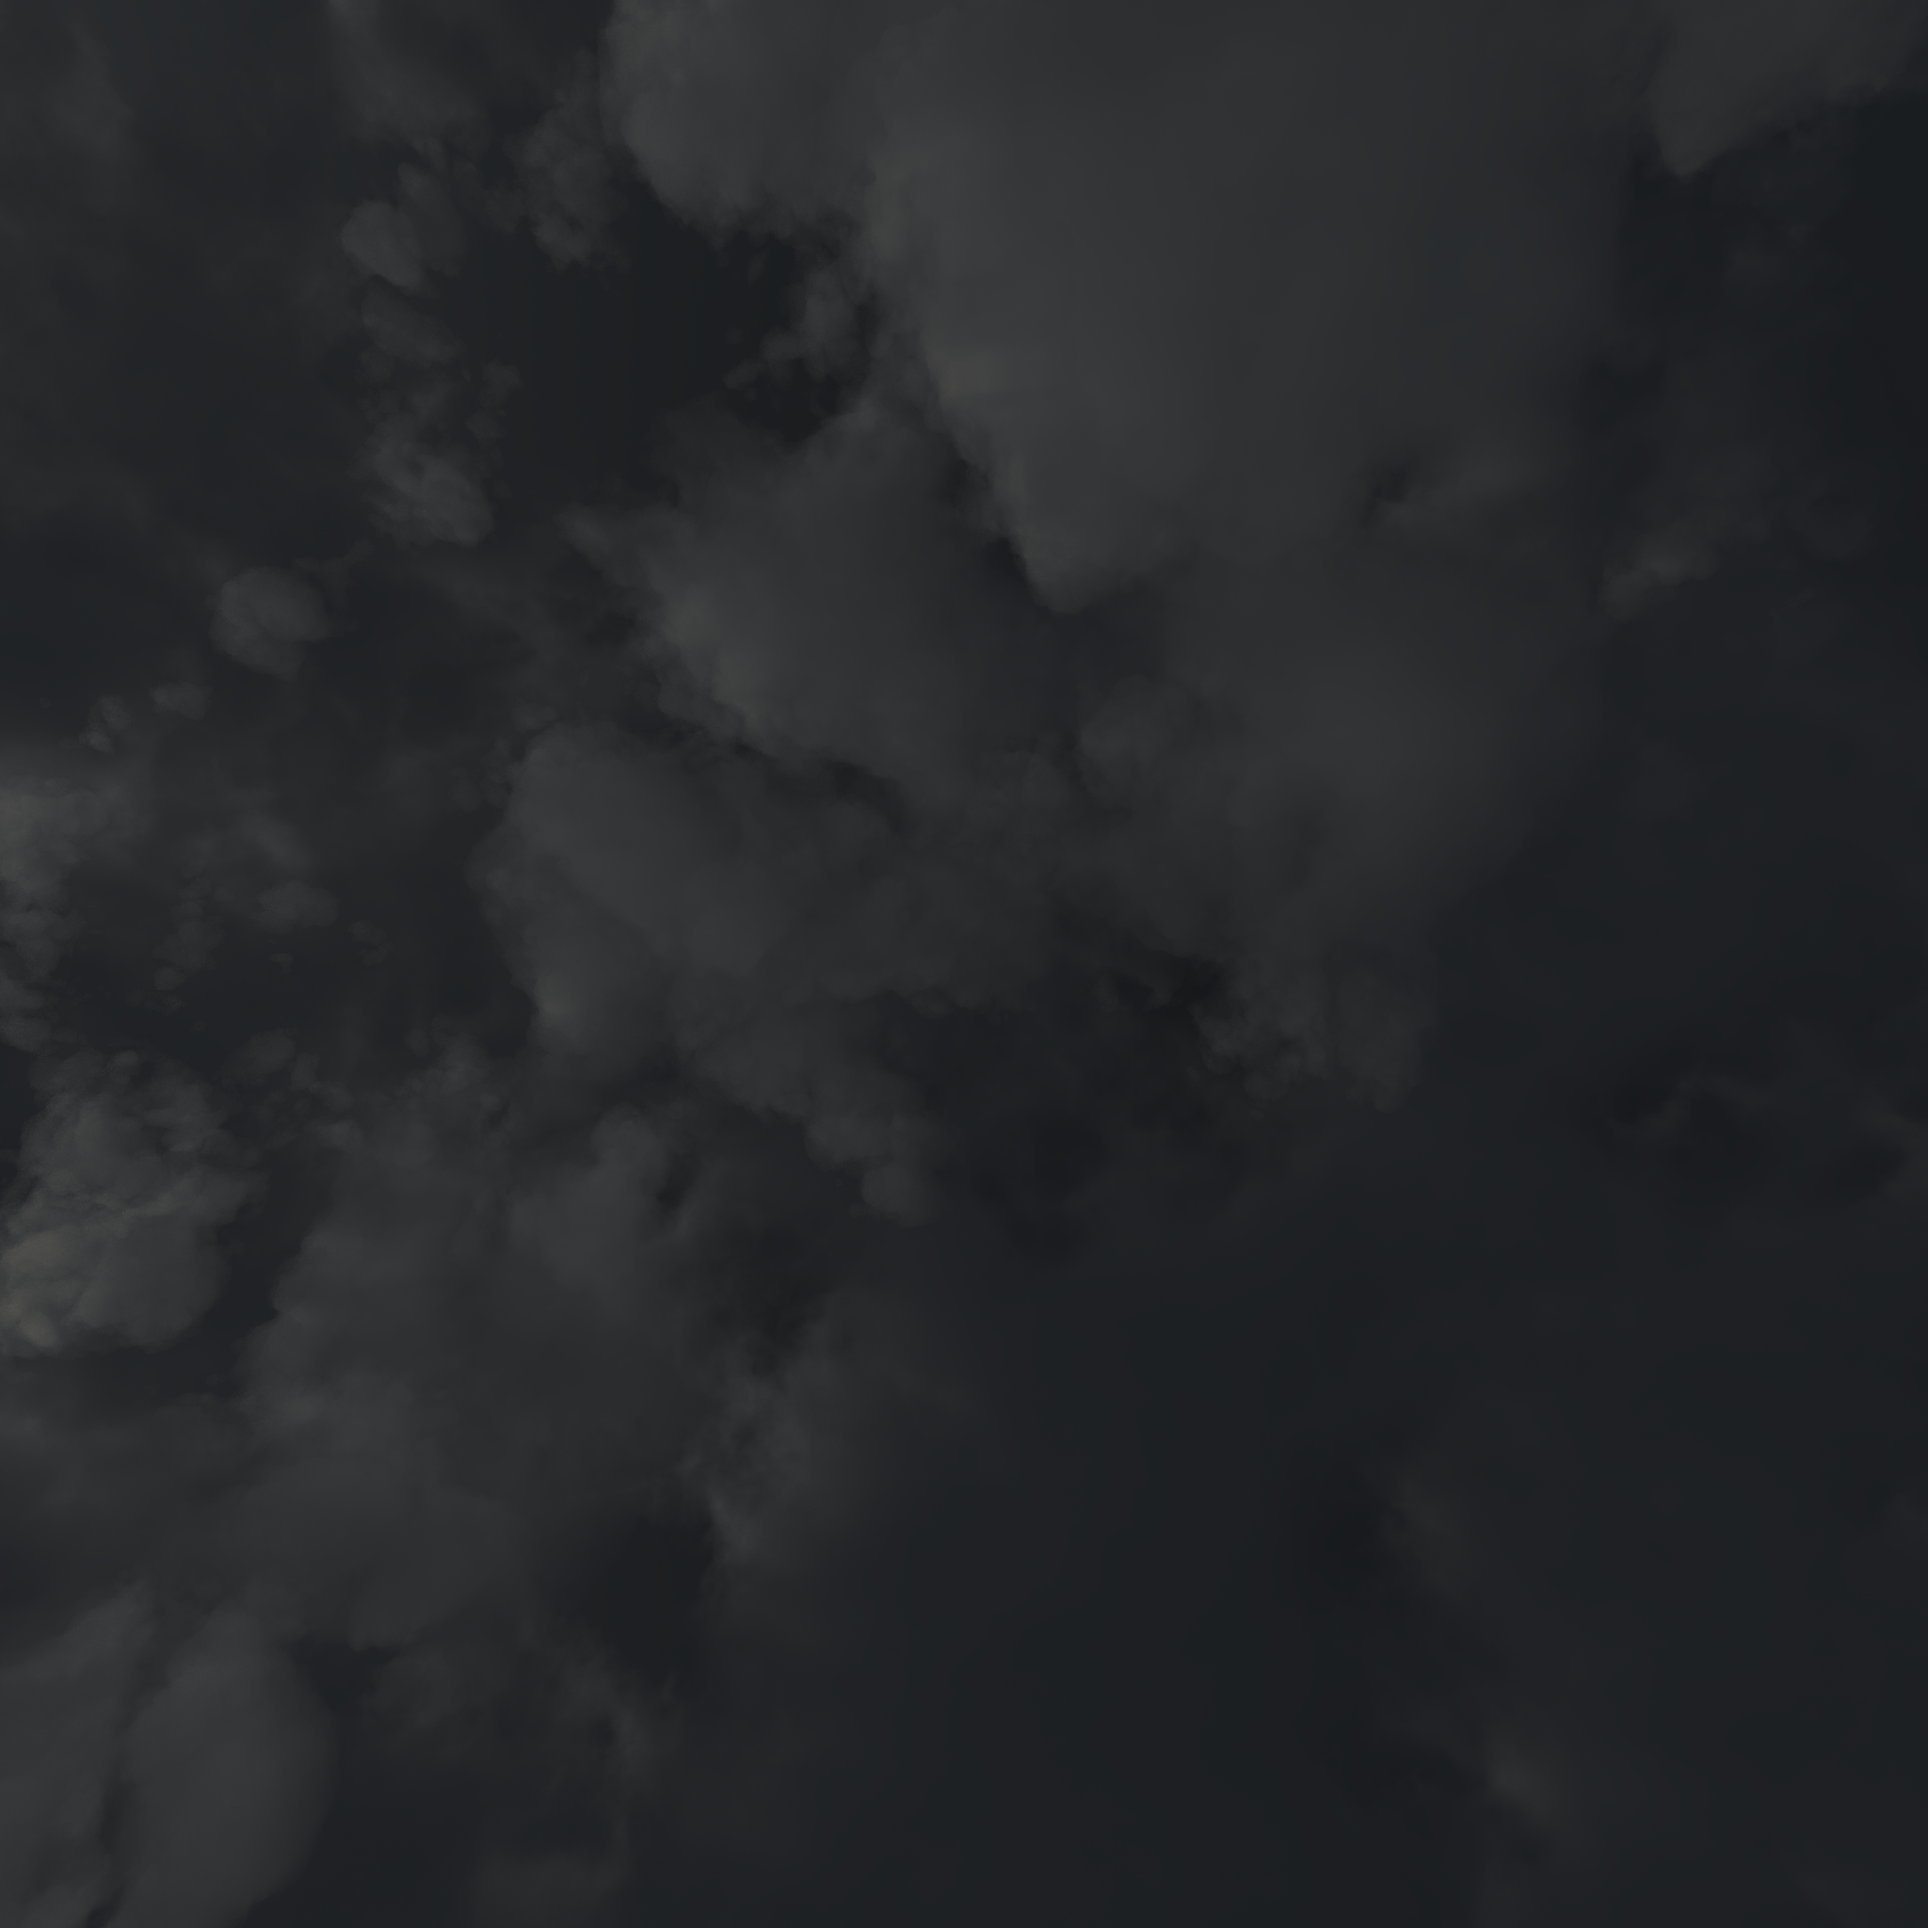
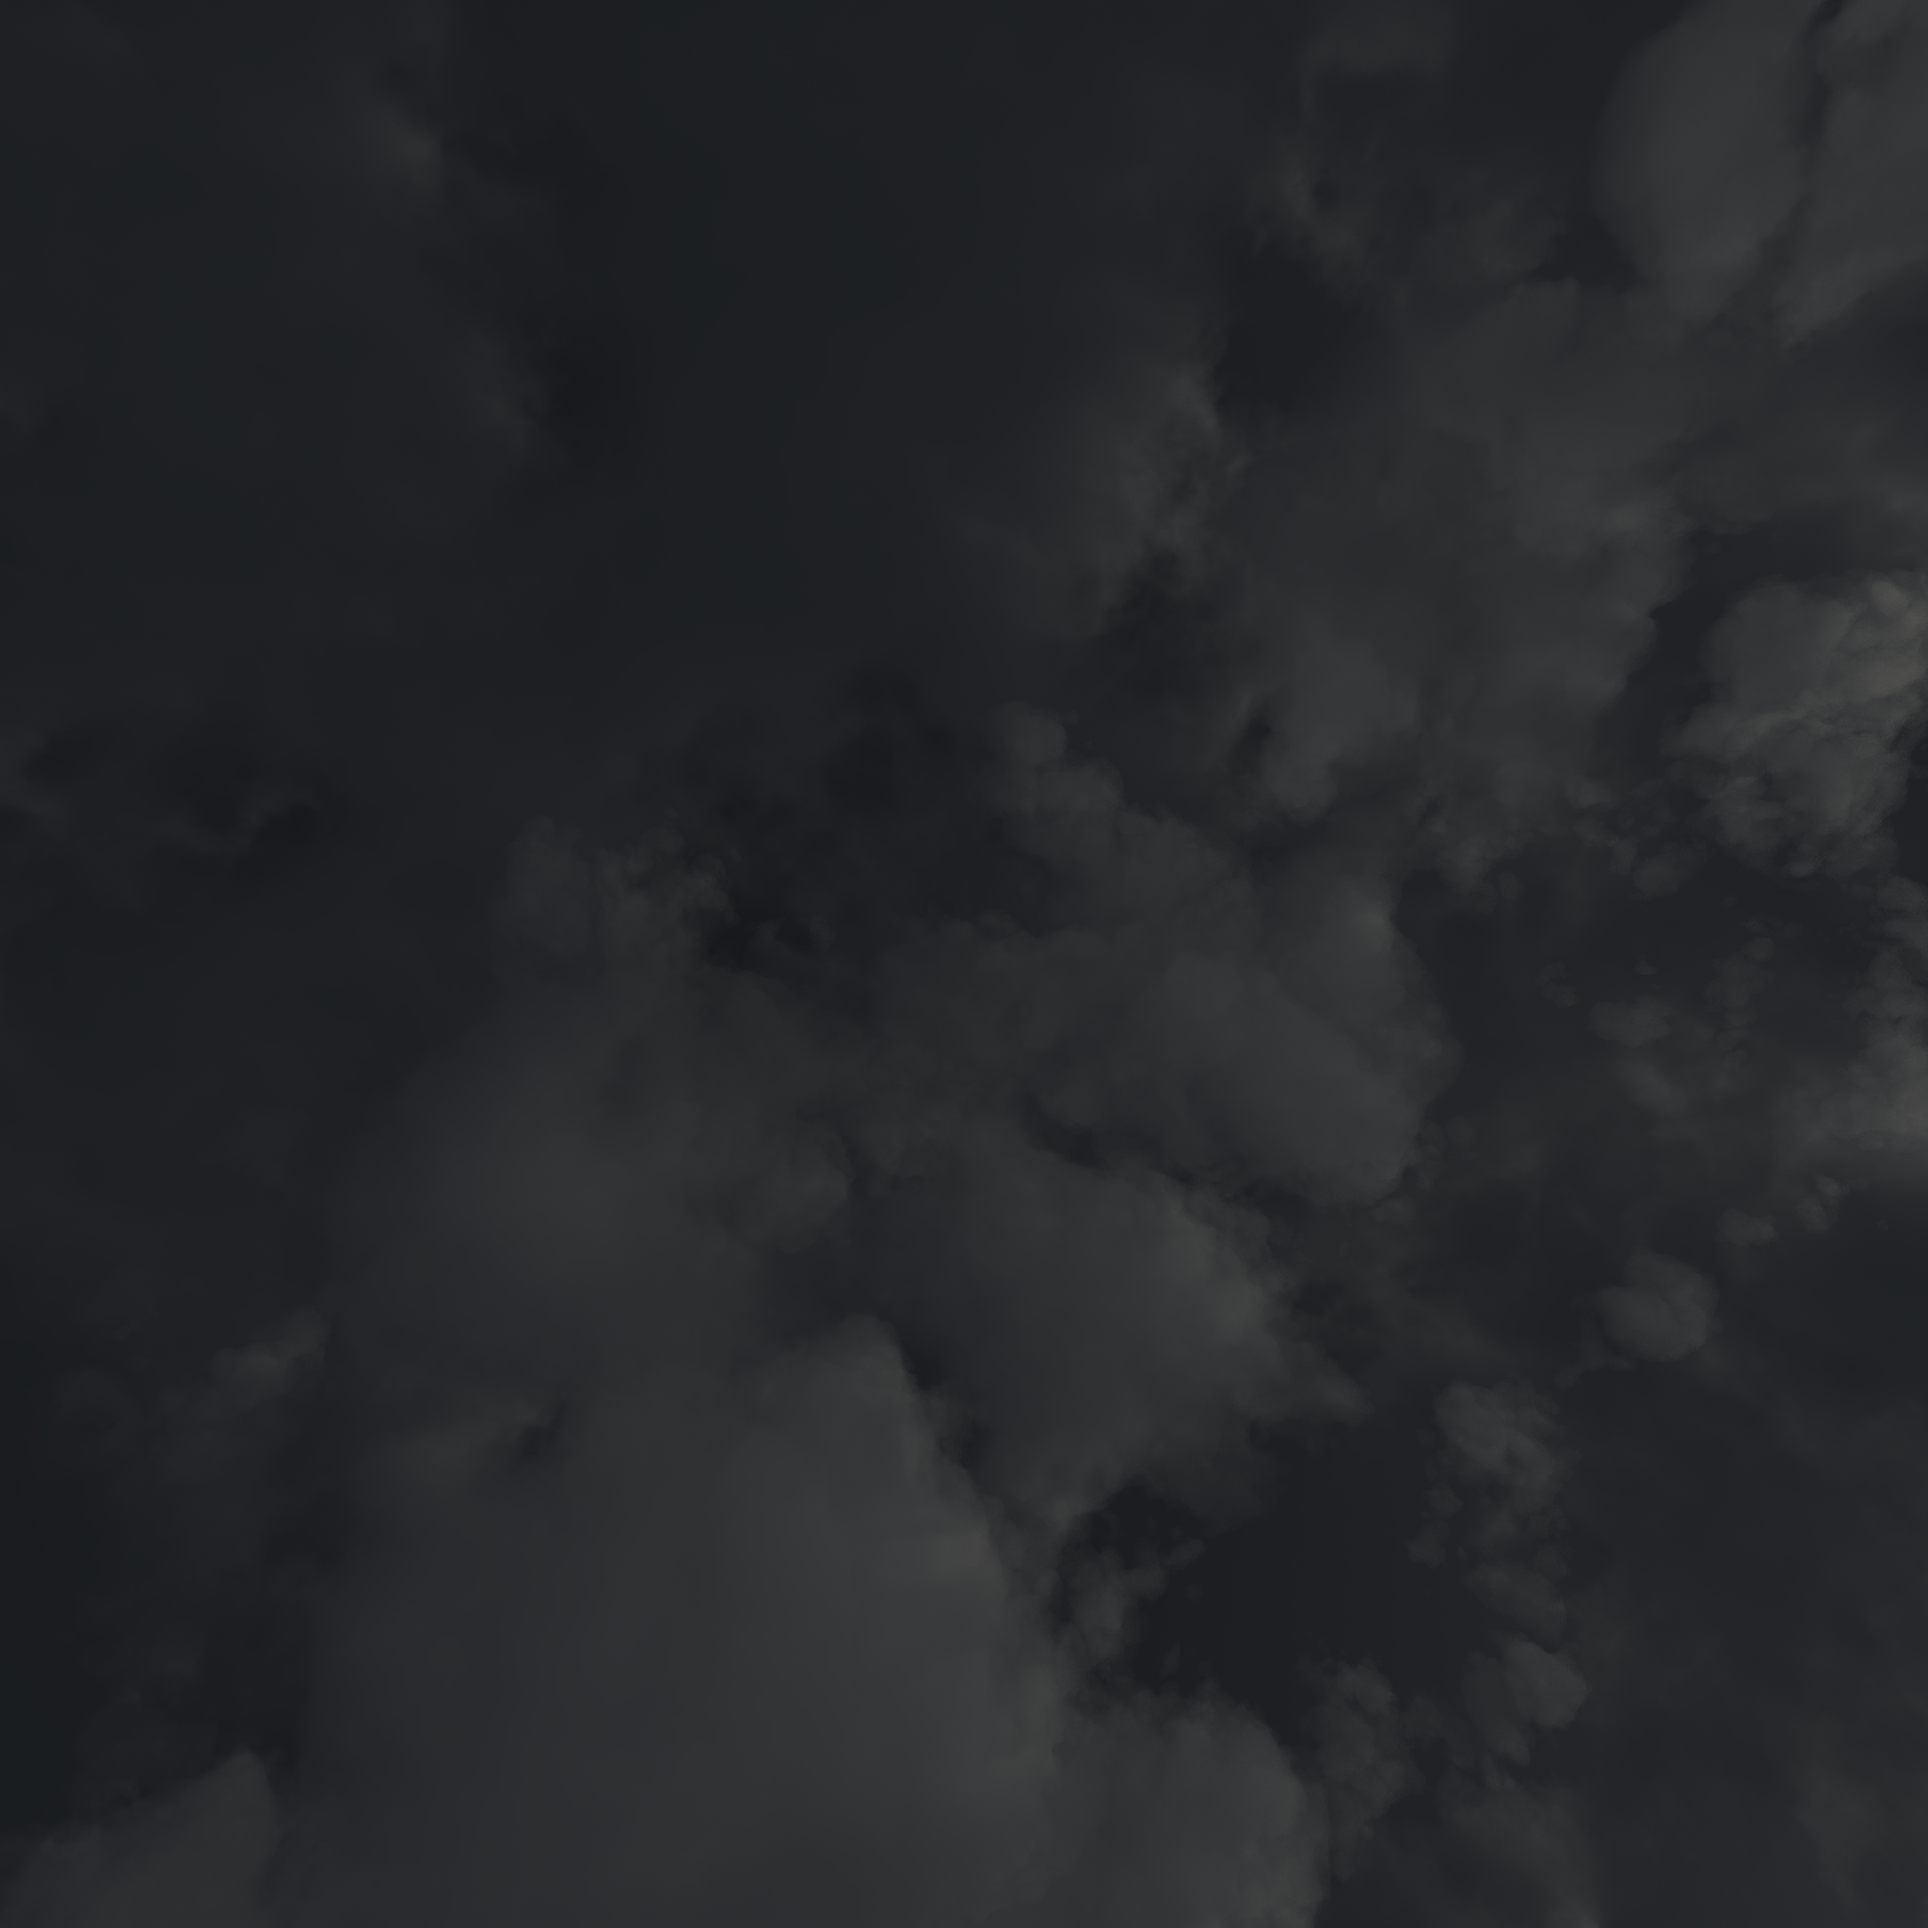
Fixed Skybox Texture Bug. And added the possibilty to toggle Skybox rotation!

diff --git a/Escape/game/game.cpp b/Escape/game/game.cpp
@@ -50,6 +50,8 @@ Game::Game(GLuint pWidth, GLuint pHeight, const char* pWindowTitle)
 	// Remove cursor
 	glfwSetInputMode(this->getWindow(), GLFW_CURSOR, GLFW_CURSOR_HIDDEN);
 
+	glfwSwapInterval(0.0);
+
 	GLFWimage icons[1];
 	icons[0].pixels = SOIL_load_image("./resources/icon.png", &icons[0].width, &icons[0].height, 0, SOIL_LOAD_RGBA);
 	glfwSetWindowIcon(this->getWindow(), 1, icons);
@@ -76,12 +78,15 @@ Game::Game(GLuint pWidth, GLuint pHeight, const char* pWindowTitle)
 	glCullFace(GL_BACK);
 
 	// Spawn Location
-	SpawnLocation.x = 256;
+	SpawnLocation.x = 0;
 	SpawnLocation.y = 0;
-	SpawnLocation.z = 256;
+	SpawnLocation.z = 0;
+
+
+	std::cout << glGetString(GL_VERSION) << std::endl;
 
 	// Create player and set his position
-	mPlayer = new Player(SpawnLocation, 1.0f, "Dweby the adventurer", this->getHeight(), this->getWidth());
+	mPlayer = new Player(SpawnLocation, 1.5f, "New Player", this->getHeight(), this->getWidth());
 }
 
 
@@ -95,10 +100,10 @@ bool Game::gameLoop()
 	mFloor = new Terrain(0, 0, 0, 10, "Boden", loader, "./terrain/res/01.jpg",64);
 
 	mSkybox = new Skybox();
-	mSkybox->addTexturePack("skybox/res/1/");
-	mSkybox->addTexturePack("skybox/res/2/");
-	mSkybox->addTexturePack("skybox/res/3/");
-	mSkybox->addTexturePack("skybox/res/4/");
+	// mSkybox->addTexturePack("skybox/res/1/");
+	// mSkybox->addTexturePack("skybox/res/2/");
+	// mSkybox->addTexturePack("skybox/res/3/");
+	// mSkybox->addTexturePack("skybox/res/4/");
 	mSkybox->addTexturePack("skybox/res/");
 
 	// Create new instance of renderer
@@ -140,8 +145,14 @@ bool Game::gameLoop()
 		GLfloat currentFrame = (GLfloat)glfwGetTime();
 		deltaTime = currentFrame - lastFrame;
 		lastFrame = currentFrame;
-
 		frames++;
+
+		if (currentFrame - lastTime >= 1.0)
+		{
+			// std::cout << frames << " fps" << std::endl;
+			frames = 0;
+			lastTime += 1.0f;
+		}
 
 		// Check if any events have been activiated (key pressed, mouse moved etc.) and call corresponding response functions
 		glfwPollEvents();
@@ -313,6 +324,11 @@ void Game::key_callback(GLFWwindow* window, int key, int scancode, int action, i
 	// Reset position to (0,0,0)
 	if (Keyboard::isKeyPressed(GLFW_KEY_F1)) {
 		game->mPlayer->setPosition(glm::vec3(0,0,0));
+	}
+
+	// Reset position to (0,0,0)
+	if (Keyboard::isKeyPressed(GLFW_KEY_E)) {
+		game->mSkybox->toggleRotation();
 	}
 
 }

diff --git a/Escape/skybox/Skybox.cpp b/Escape/skybox/Skybox.cpp
@@ -52,6 +52,9 @@ Skybox::Skybox()
 		mVertices.at(i) = mVertices.at(i) * 1000;
 	}
 
+	mIsRotating = false;
+	mRotation = 0;
+
 	// Create new shader
 	mShader = new SkyboxShader("shaders/skybox.vert", "shaders/skybox.frag");
 
@@ -88,11 +91,18 @@ void Skybox::loadVAO()
 
 }
 
-void Skybox::render(glm::mat4 pViewMatrix, glm::mat4 pProjectionMatrix)
+void Skybox::render(glm::mat4 pViewMatrix, glm::mat4 pProjectionMatrix, GLfloat dt)
 {
 	glDepthFunc(GL_LEQUAL);  // Change depth function so depth test passes when values are equal to depth buffer's content
 	mShader->use();
-	mShader->loadViewMatrix(pViewMatrix);
+	glm::mat4 newViewMatrix = pViewMatrix;
+	float currentRotation = mRotation;
+	if (this->mIsRotating) {
+		mRotation += 1.0f * dt;
+	}		
+	newViewMatrix = glm::rotate(newViewMatrix, Math::toRadians(mRotation), glm::vec3(0, 1, 0));
+	mShader->loadViewMatrix(newViewMatrix);
+
 	mShader->loadProjectionMatrix(pProjectionMatrix);
 	// skybox cube
 	glBindVertexArray(this->getVAO());
@@ -102,6 +112,10 @@ void Skybox::render(glm::mat4 pViewMatrix, glm::mat4 pProjectionMatrix)
 	glDrawArrays(GL_TRIANGLES, 0, 36);
 	glBindVertexArray(0);
 	glDepthFunc(GL_LESS); // Set dep
+}
+
+void Skybox::toggleRotation(){
+	mIsRotating = !mIsRotating;
 }
 
 void Skybox::setVAO(GLuint pVAO)

diff --git a/Escape/skybox/texture/SkyboxTexture.cpp b/Escape/skybox/texture/SkyboxTexture.cpp
@@ -29,11 +29,13 @@ void SkyboxTexture::loadTexture() {
 			glTexImage2D(GL_TEXTURE_CUBE_MAP_POSITIVE_X + i, 0, GL_RGB, width, height, 0, GL_RGB, GL_UNSIGNED_BYTE, image);
 			SOIL_free_image_data(image);
 		}
-		glTexParameteri(GL_TEXTURE_CUBE_MAP, GL_TEXTURE_MAG_FILTER, GL_LINEAR);
-		glTexParameteri(GL_TEXTURE_CUBE_MAP, GL_TEXTURE_MIN_FILTER, GL_LINEAR);
 		glTexParameteri(GL_TEXTURE_CUBE_MAP, GL_TEXTURE_WRAP_S, GL_CLAMP_TO_EDGE);
 		glTexParameteri(GL_TEXTURE_CUBE_MAP, GL_TEXTURE_WRAP_T, GL_CLAMP_TO_EDGE);
 		glTexParameteri(GL_TEXTURE_CUBE_MAP, GL_TEXTURE_WRAP_R, GL_CLAMP_TO_EDGE);
+		glTexParameteri(GL_TEXTURE_CUBE_MAP, GL_TEXTURE_MAG_FILTER, GL_LINEAR);
+		glTexParameteri(GL_TEXTURE_CUBE_MAP, GL_TEXTURE_MIN_FILTER, GL_LINEAR);
+		glTexParameteri(GL_TEXTURE_CUBE_MAP, GL_TEXTURE_BASE_LEVEL, 0);
+		glTexParameteri(GL_TEXTURE_CUBE_MAP, GL_TEXTURE_MAX_LEVEL, 0);
 		glBindTexture(GL_TEXTURE_CUBE_MAP, 0);
 
 		mTextureID = textureID;

diff --git a/Escape/skybox/Skybox.hpp b/Escape/skybox/Skybox.hpp
@@ -9,6 +9,7 @@
 
 #include "shader\SkyboxShader.hpp"
 #include "texture\SkyboxTexture.hpp"
+#include "../math/math.hpp"
 
 class Skybox
 {
@@ -17,13 +18,14 @@ public:
 
 	void loadVAO();
 
-	void render(glm::mat4 pViewMatrix, glm::mat4 pProjectionMatrix);
+	void render(glm::mat4 pViewMatrix, glm::mat4 pProjectionMatrix, GLfloat pTime);
+	void toggleRotation();
 
 	void setVAO(GLuint pVAO);
-	GLuint getVAO() const;
-
 	void setVBO(GLuint pVBO);
+
 	GLuint getVBO() const;
+	GLuint getVAO() const;
 
 	void setCurrentCubeMapTexture(GLuint pCubeMapTexture);
 	GLuint getCurrentCubeMapTexture() const;
@@ -44,5 +46,9 @@ private:
 	SkyboxShader* mShader;
 	// Texture Packs
 	std::vector<SkyboxTexture*> mTexturePacks;
+	// Rotating skybox
+	bool mIsRotating;
+	// Current rotation
+	GLfloat mRotation;
 
 };

diff --git a/Escape/terrain/terrain.cpp b/Escape/terrain/terrain.cpp
@@ -589,9 +589,11 @@ void Terrain::generateHeights(Loader * loader, const char* pHeightmap)
 }
 
 void Terrain::generateRandomHeights(unsigned int size) {
-	TerrainGenerator* test = new TerrainGenerator(size, size, 1.0f,10,0.5f,2.0f);
+	// TerrainGenerator* test = new TerrainGenerator(size, size, 1.0f,10,0.5f,2.0f);
 	this->setVertices(size);
-	mHeights = test->getHeightValues();
+	// mHeights = test->getHeightValues();
+	std::vector<float> flatTerrain(size * size, 0.0f);
+	mHeights = flatTerrain;
 	std::cout << "Random Terrain generated!" << std::endl;
 }
 

diff --git a/Escape/renderer/mainrenderer.cpp b/Escape/renderer/mainrenderer.cpp
@@ -34,7 +34,7 @@ void MainRenderer::render(glm::mat4 pViewMatrix, vector<Light*> pLights, GLfloat
 	// Preparing the scree
 	this->prepare(pRED, pGREEN, pBLUE);
 
-	mSkybox->render(pViewMatrix, mPlayer->getProjectionMatrix());
+	mSkybox->render(pViewMatrix, mPlayer->getProjectionMatrix(),pDelta);
 
 	// Polygon Mode
 	if (this->getDrawMode())

diff --git a/Escape/skybox/texture/SkyboxTexture.hpp b/Escape/skybox/texture/SkyboxTexture.hpp
@@ -1,11 +1,16 @@
 #pragma once
+// Standard Input/Output library
 #include <iostream>
+// String 
 #include <string>
+// Simple OpenGL Image Loading
 #include <SOIL.h>
 #include <vector>
 #include <glew.h>
 #include <glfw3.h>
 #include <gl\GL.h>
+
+// Declaration of the Skybox Texture class
 class SkyboxTexture{
 
 public:
